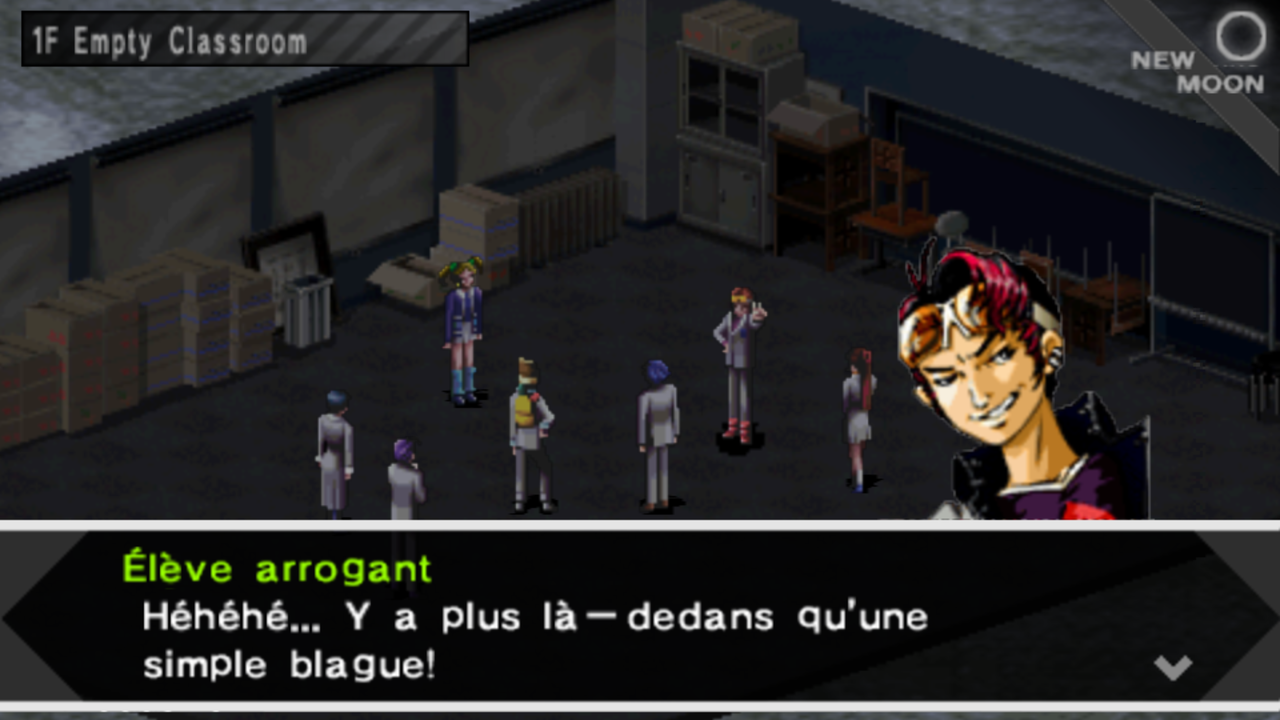
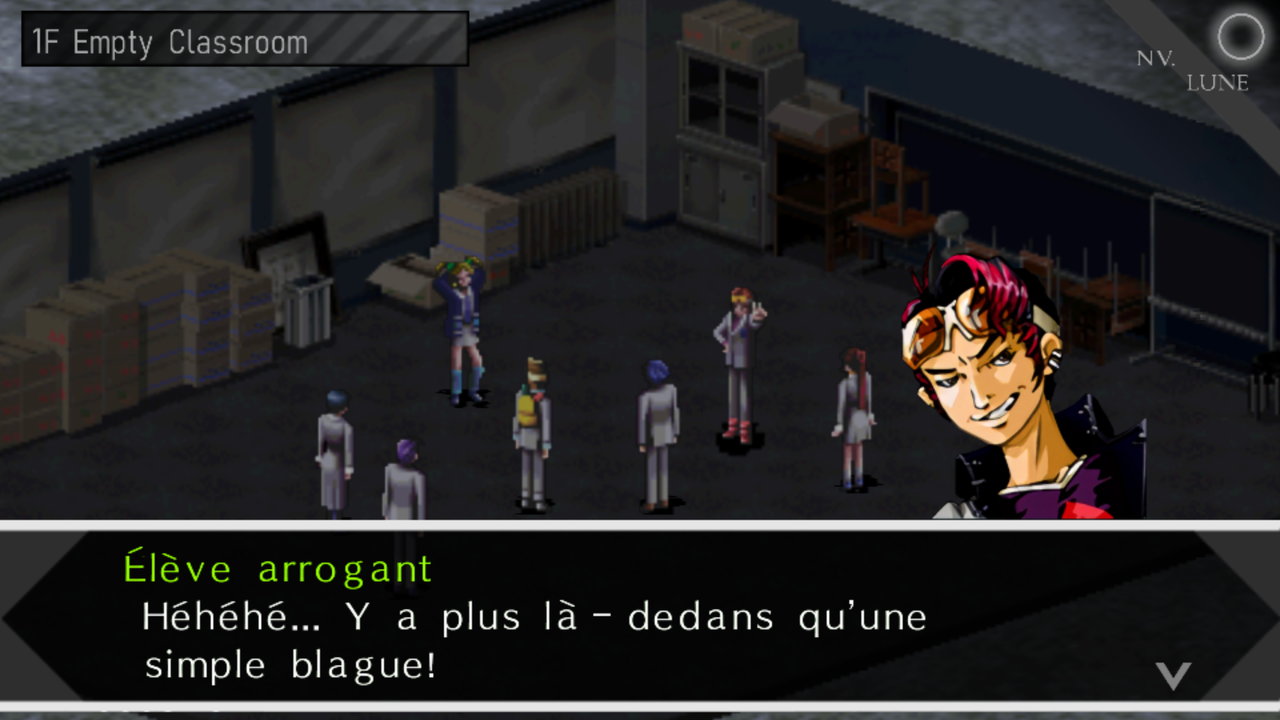
Pack HD documente, captures francaises refaites en HD

diff --git a/outils/installer_hd.py b/outils/installer_hd.py
@@ -1,0 +1,146 @@
+#!/usr/bin/env python3
+"""Installe le pack HD de Ryuubu/PPSSPP en gardant nos textures francaises.
+
+    python game/tools/installer_hd.py --source <dossier "HD UI"> [--textures <dossier PPSSPP>]
+
+Le pack HD remplace 574 textures, dont les trois atlas de police et quatre
+ecrans que nous avons deja traduits. PPSSPP ne lit qu'un seul textures.ini par
+jeu : il faut donc fusionner, pas juxtaposer.
+
+Deux details rendent la fusion possible :
+
+  - Leur ini utilise `hash = xxh64` avec `reduceHash`, le notre `hash = quick`.
+    L'algorithme est GLOBAL au jeu : nos empreintes deviennent invalides. Mais
+    le segment central de l'empreinte est le meme dans les deux -- c'est par lui
+    qu'on apparie, et on reprend ensuite LEUR empreinte pour designer NOS
+    fichiers.
+  - Leurs atlas sont nos atlas en x5 exactement, meme grille de 16 colonnes.
+
+Ce que le script fait : copie leur pack, puis repointe les entrees qui nous
+concernent vers nos fichiers francais. Ce qui n'est pas encore traduit en HD
+reste donc en francais basse resolution plutot que de repasser en anglais HD.
+"""
+
+from __future__ import annotations
+
+import argparse
+import re
+import shutil
+import sys
+from pathlib import Path
+
+# segment central de notre empreinte -> notre fichier francais
+#
+# `19881115` (les phases de lune) n'y est PLUS, et c'est voulu. Cette texture
+# ne porte que les icones ; leur version HD est meilleure que la notre et n'a
+# aucun texte a traduire. Les libelles (NEW / FULL MOON / HALF) vivent dans une
+# texture SEPAREE, `UI/MoonStatus.png` -- que nous n'avions jamais touchee : le
+# bas de notre phases_lune_fr.png etait du travail invisible, le jeu n'en
+# affichait rien. C'est elle qu'il faut traduire.
+NOS = {
+    "8327c4ac": "police_menu.png",
+    "8327c5ac": "police_dlg_p0.png",
+    "2b4f00c4": "police_dlg_p1.png",
+    "ada68967": "press_any_button_fr.png",
+    "2b4f0ecb": "menu_titre_fr.png",
+    "4455fdfd": "mise_en_garde_fr.png",
+    "2b4f0bc4": "phases_lune_texte_fr.png",  # MoonStatus, a produire
+}
+
+LIGNE = re.compile(r"^\s*([0-9a-f]{16,32})\s*=\s*(\S.*?)\s*$")
+
+
+def main(argv=None):
+    ap = argparse.ArgumentParser(description=__doc__)
+    ap.add_argument("--source", required=True, type=Path, help='le dossier "HD UI" decompresse')
+    ap.add_argument(
+        "--textures",
+        type=Path,
+        default=Path.home() / "Documents" / "PPSSPP" / "PSP" / "TEXTURES" / "ULUS10432",
+    )
+    ap.add_argument("--simuler", action="store_true", help="ne rien copier, seulement dire")
+    ap.add_argument(
+        "--anglais",
+        action="store_true",
+        help="laisser le pack HD en anglais : sert a photographier l'avant/apres "
+        "dans des conditions IDENTIQUES, seule la langue changeant",
+    )
+    args = ap.parse_args(argv)
+
+    src, dst = args.source, args.textures
+    if not (src / "textures.ini").exists():
+        print(f"  {src}/textures.ini introuvable", file=sys.stderr)
+        return 1
+
+    ini = (src / "textures.ini").read_text(encoding="utf-8", errors="replace")
+
+    # Repointage : on garde LEUR empreinte, on change le fichier vise.
+    #
+    # Un fichier francais absent laisse l'entree HD intacte. Repointer vers le
+    # vide afficherait un trou a la place de la texture -- pire que de l'anglais
+    # en HD, et sans rien pour le signaler.
+    remplaces, sorties, pas_prets = [], [], []
+    for ligne in ini.splitlines():
+        m = LIGNE.match(ligne)
+        if m:
+            empreinte, cible = m.groups()
+            notre = None if args.anglais else next((f for seg, f in NOS.items() if seg in empreinte), None)
+            if notre:
+                if (dst / notre).exists() or (Path.cwd() / notre).exists():
+                    sorties.append(f"{empreinte} = {notre}")
+                    remplaces.append((cible, notre))
+                    continue
+                pas_prets.append((cible, notre))
+        sorties.append(ligne)
+
+    if args.anglais:
+        print("  mode ANGLAIS : le pack HD reste intact, aucun fichier francais utilise.")
+        print("  Sert a photographier l'avant/apres a conditions egales — repasser")
+        print("  au francais en relancant ce script SANS --anglais.")
+    else:
+        print(f"  {len(remplaces)} texture(s) repointee(s) vers nos fichiers francais :")
+        for leur, notre in remplaces:
+            print(f"    {leur:<28} -> {notre}")
+
+        for leur, notre in pas_prets:
+            print(f"    {leur:<28} reste en anglais HD : {notre} n'existe pas encore")
+
+        vises = {n for _, n in remplaces} | {n for _, n in pas_prets}
+        for f in sorted(set(NOS.values()) - vises):
+            print(f"    ATTENTION : {f} n'a trouve aucune entree dans leur ini", file=sys.stderr)
+
+    if args.simuler:
+        print("\n  (simulation, rien n'a ete ecrit)")
+        return 0
+
+    dst.mkdir(parents=True, exist_ok=True)
+
+    # Nos fichiers francais doivent survivre a la copie : on les met de cote.
+    a_garder = {}
+    for f in set(NOS.values()) | {"mappings_images.txt"}:
+        p = dst / f
+        if p.exists():
+            a_garder[f] = p.read_bytes()
+
+    copies = 0
+    for p in sorted(src.rglob("*")):
+        if p.is_file() and p.name != "textures.ini":
+            cible = dst / p.relative_to(src)
+            cible.parent.mkdir(parents=True, exist_ok=True)
+            shutil.copy2(p, cible)
+            copies += 1
+
+    for f, contenu in a_garder.items():
+        (dst / f).write_bytes(contenu)
+
+    (dst / "textures.ini").write_text("\n".join(sorties) + "\n", encoding="utf-8")
+
+    print(f"\n  {copies} textures HD copiees, {len(a_garder)} fichiers francais preserves")
+    print(f"  -> {dst}")
+    print("\n  Dans PPSSPP : Graphismes > Textures > Remplacement de textures = ON,")
+    print("  et Enregistrement des nouvelles textures = OFF. Fenetre fermee.")
+    return 0
+
+
+if __name__ == "__main__":
+    sys.exit(main())

diff --git a/README.md b/README.md
@@ -28,6 +28,10 @@ place.
 | <img src="assets/captures/menu-en.png" width="400" alt="menu du titre en anglais"> | <img src="assets/captures/menu-fr.png" width="400" alt="menu du titre en français"> |
 | <img src="assets/captures/dialogue-en.png" width="400" alt="dialogue en anglais"> | <img src="assets/captures/dialogue-fr.png" width="400" alt="dialogue en français"> |
 
+> Colonne de gauche : le jeu d'origine. Colonne de droite : la traduction, avec
+> le **pack HD** de Ryuubu par-dessus — voir [plus bas](#le-rendu-hd-recommandé).
+> La netteté vient de lui ; le français vient de nous.
+
 Les accents ont demandé le plus gros du travail technique : le jeu américain
 n'a **aucun glyphe accentué** — les cases correspondantes de sa police sont
 vides. Il a fallu les dessiner un par un dans les atlas de textures, puis
@@ -36,6 +40,47 @@ régler leurs métriques. Vingt-cinq caractères, validés en jeu.
 <p align="center">
   <img src="assets/captures/accents.png" width="700" alt="texte français accentué en jeu">
 </p>
+
+---
+
+## Le rendu HD, recommandé
+
+Un pack de textures haute définition existe pour ce jeu, et **la traduction est
+faite pour fonctionner avec**. Ce n'est pas notre travail — c'est celui de
+**Ryuubu**, publié sur les forums PPSSPP puis porté sur GameBanana :
+
+**<https://gamebanana.com/mods/309876>** · 207 Mo · 793 textures
+
+Il remplace les polices, l'interface, les cartes de Persona, les portraits, les
+cartes du monde, l'interface de combat, les crédits et les mini-jeux du casino.
+Nous n'avons pas le droit de le redistribuer : il se télécharge chez lui.
+
+### L'installer avec la traduction
+
+Le pack et la traduction touchent **les mêmes textures** — les trois atlas de
+police et quatre écrans. PPSSPP ne lit qu'un seul `textures.ini` par jeu, il
+faut donc les fusionner :
+
+```bash
+python outils/installer_hd.py --source "<dossier HD UI décompressé>"
+```
+
+Le script copie son pack, puis redirige vers nos fichiers français les sept
+textures qui nous concernent — celles-ci sont fournies avec le correctif. Les
+accents sont recomposés sur ses planches HD : elles sont les nôtres à l'échelle
+**×5 exacte**, même grille de 16 colonnes, ce qui rend l'opération possible.
+
+Un fichier français absent laisse la texture anglaise HD en place plutôt que de
+pointer vers le vide — vous ne risquez pas de vous retrouver avec un trou à
+l'écran.
+
+Dans PPSSPP, **fenêtre fermée** : `Remplacement de textures` **ON**,
+`Enregistrement des nouvelles textures` **OFF**.
+
+### Sans le pack HD
+
+La traduction fonctionne très bien sans lui — c'est ainsi qu'elle a été
+développée. Le texte est simplement en résolution d'origine.
 
 ---
 
@@ -112,6 +157,9 @@ SUIVI.md          généré, jamais édité à la main
   l'origine de tout ce qui marche ici. Rien de ce projet n'existerait sans lui.
 - **GarekMallen** — éditeur PT-BR, table d'accents confirmée par recoupement,
   et une interface française écrite pour nous.
+- **Ryuubu** — le pack de textures haute définition, dont vient tout ce que les
+  captures de cette page ont de net. Publié sur les forums PPSSPP, porté sur
+  [GameBanana](https://gamebanana.com/mods/309876).
 - **chenetulipe et l'équipe [P2-FR-IS-PSP](https://github.com/chenetulipe/P2-FR-IS-PSP)** —
   modèle d'organisation.
 - **Atlus / SEGA** — ayants droit du jeu.
